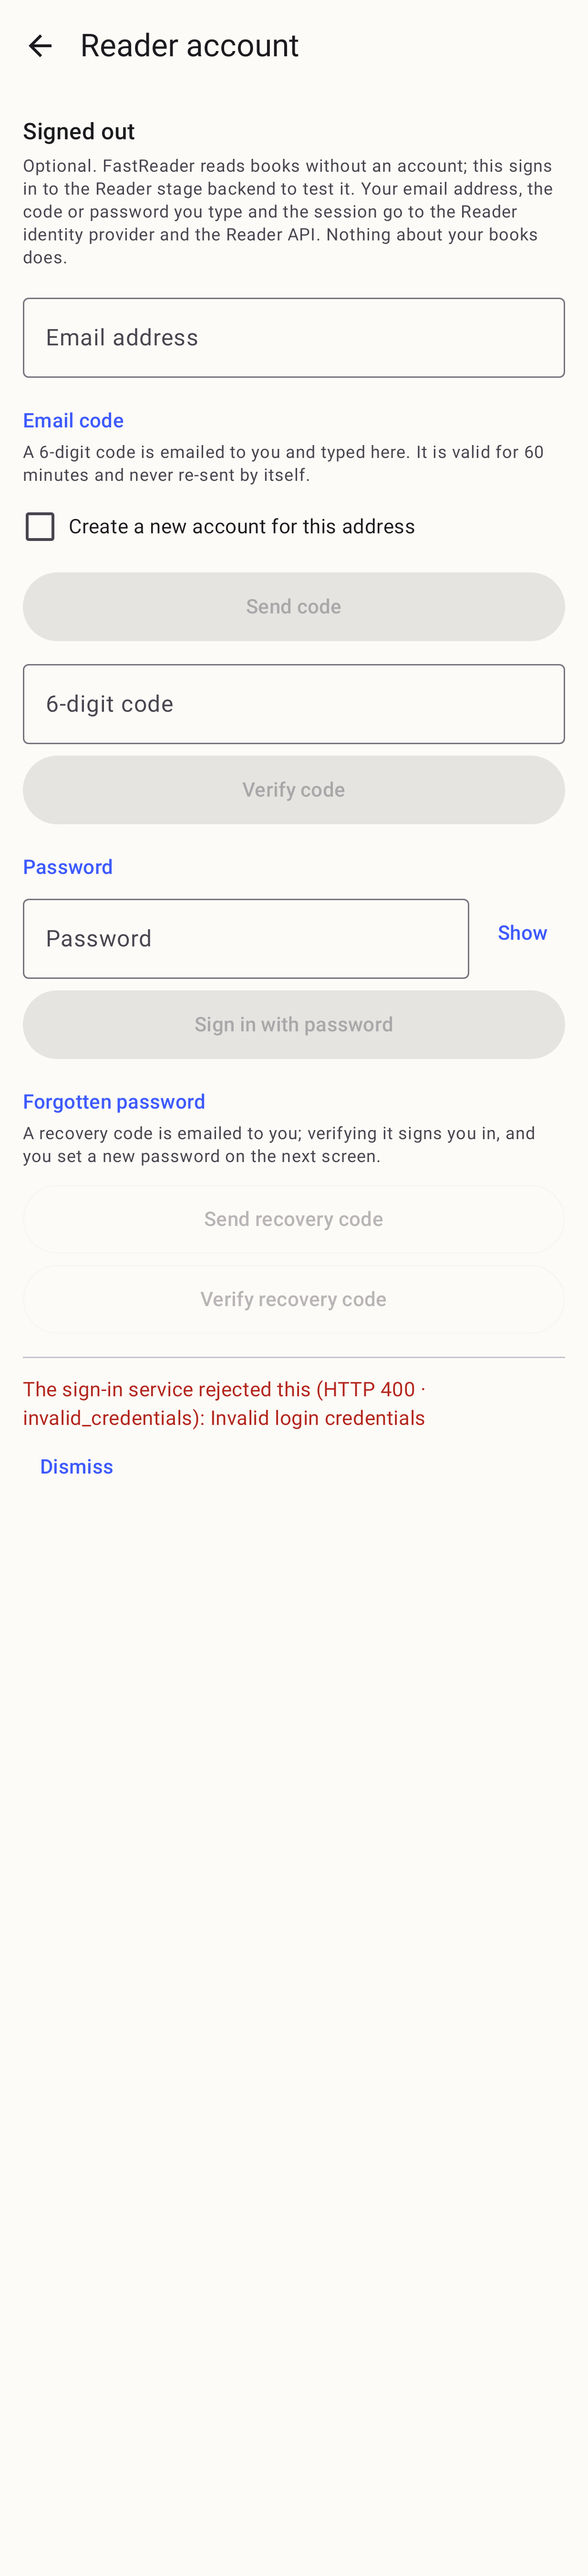
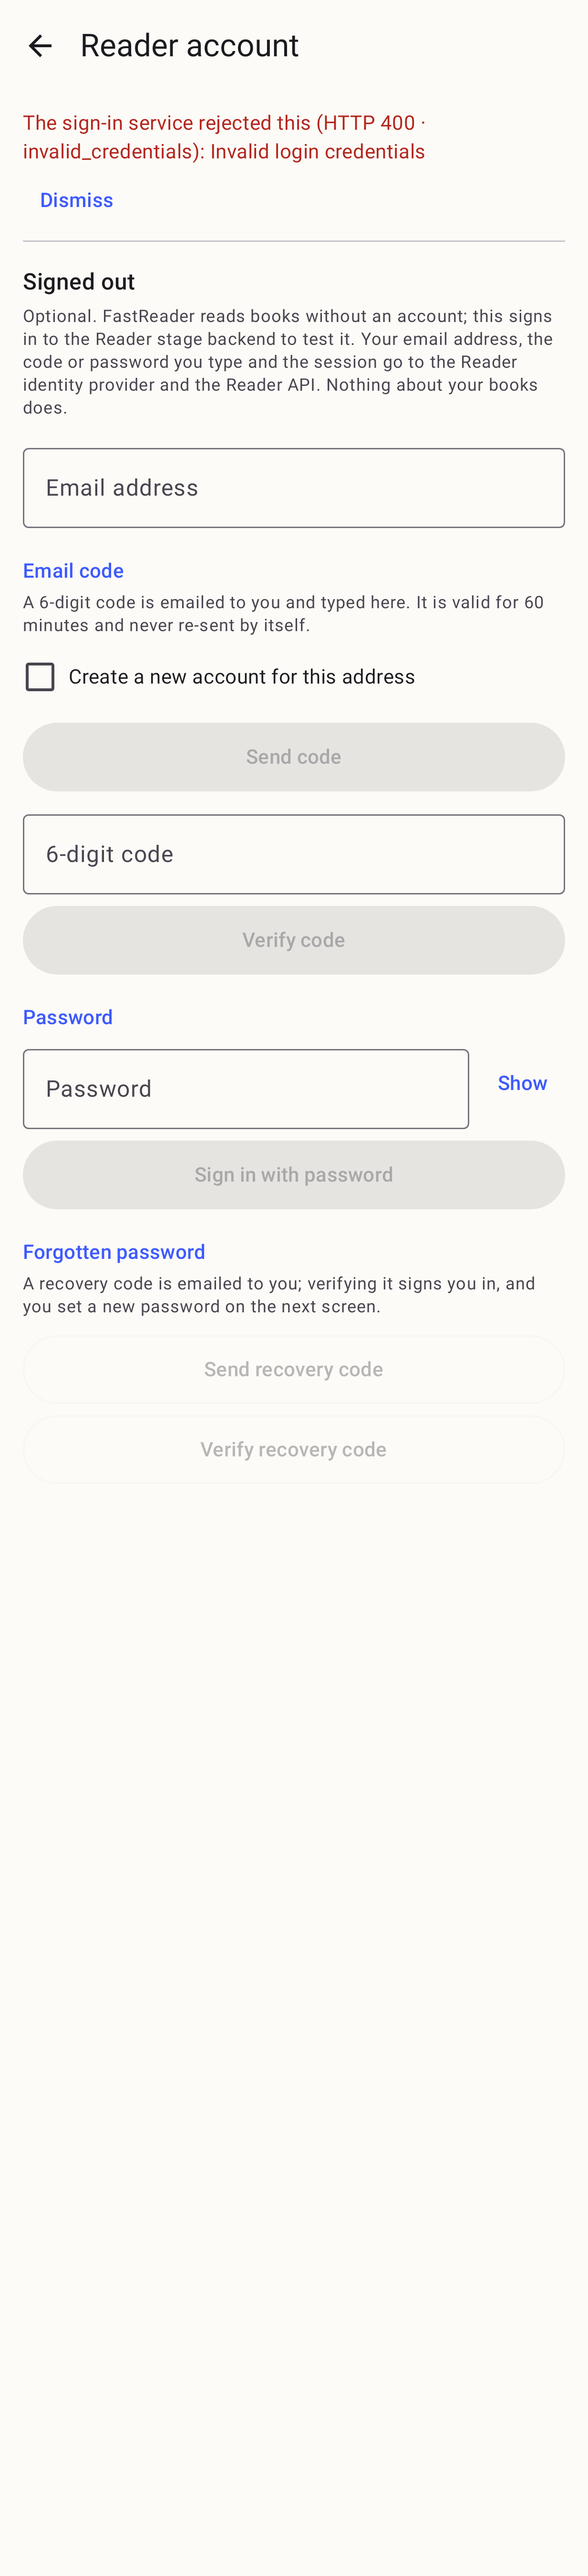
Show the account outcome above the forms, not below the fold
On the reference phone the signed-out forms run past one viewport, so a
provider rejection under them was something a reader had to scroll to
find. The activity and outcome line now sits under the app bar.

diff --git a/app/src/main/java/com/cedagova/fastreader/account/ui/ReaderAccountScreen.kt b/app/src/main/java/com/cedagova/fastreader/account/ui/ReaderAccountScreen.kt
@@ -127,6 +127,10 @@ fun ReaderAccountScreen(
                 .verticalScroll(rememberScrollState())
                 .padding(horizontal = 16.dp),
         ) {
+            // First, above the forms: on the reference phone the signed-out
+            // forms run past one viewport, and an outcome under them was a
+            // rejection a reader had to scroll to find (seen on the emulator).
+            ActivityAndOutcome(state, actions)
             when (state) {
                 // Blank rather than a spinner, for the same reason the launch
                 // routing is blank: the stored session is one small file read,
@@ -136,7 +140,6 @@ fun ReaderAccountScreen(
                 is ReaderAccountState.SignedOut -> SignedOut(state, actions)
                 is ReaderAccountState.SignedIn -> SignedIn(state, actions)
             }
-            ActivityAndOutcome(state, actions)
             Spacer(Modifier.height(24.dp))
         }
     }
@@ -329,7 +332,7 @@ private fun Capabilities(capabilities: LoadedCapabilities) {
 }
 
 /**
- * The line under the forms: the operation in flight, or the last outcome. The
+ * The line above the forms: the operation in flight, or the last outcome. The
  * outcome is a live region, so a screen reader hears a rejection when it
  * appears rather than on the next swipe (REQ-060), and it can be dismissed.
  */
@@ -338,8 +341,6 @@ private fun ActivityAndOutcome(state: ReaderAccountState, actions: ReaderAccount
     val activity = state.activity
     val outcome = state.outcome
     if (activity == null && outcome == null) return
-    Spacer(Modifier.height(16.dp))
-    HorizontalDivider()
     Spacer(Modifier.height(12.dp))
     if (activity != null) {
         Text(
@@ -368,6 +369,8 @@ private fun ActivityAndOutcome(state: ReaderAccountState, actions: ReaderAccount
             Text(stringResource(R.string.account_dismiss))
         }
     }
+    Spacer(Modifier.height(4.dp))
+    HorizontalDivider()
 }
 
 /**
